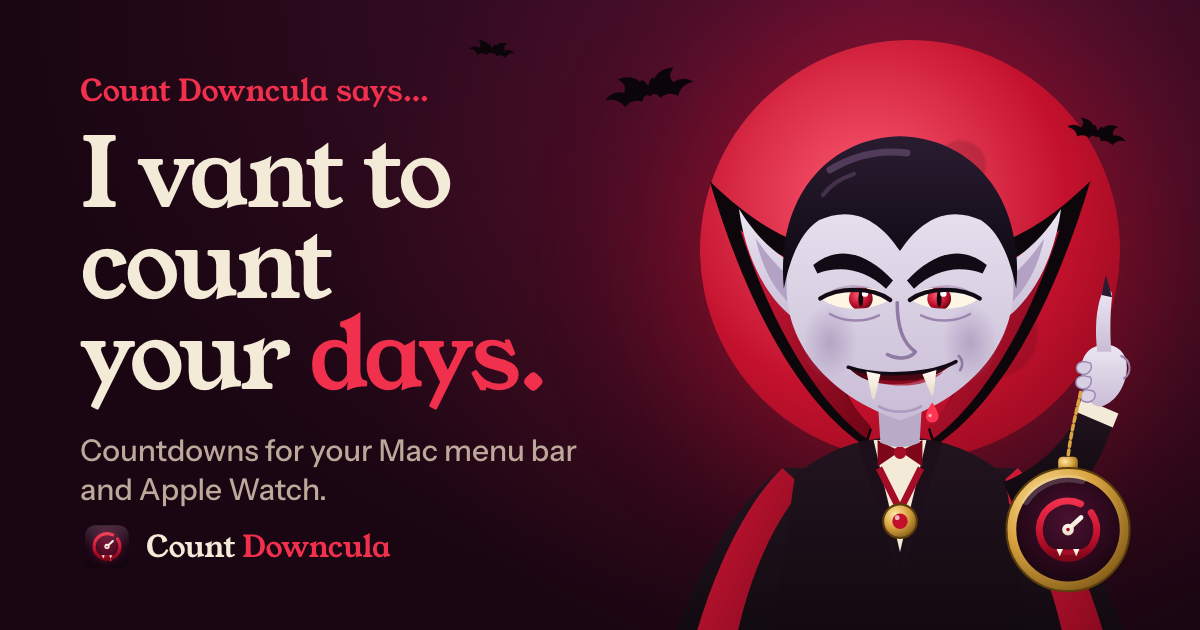
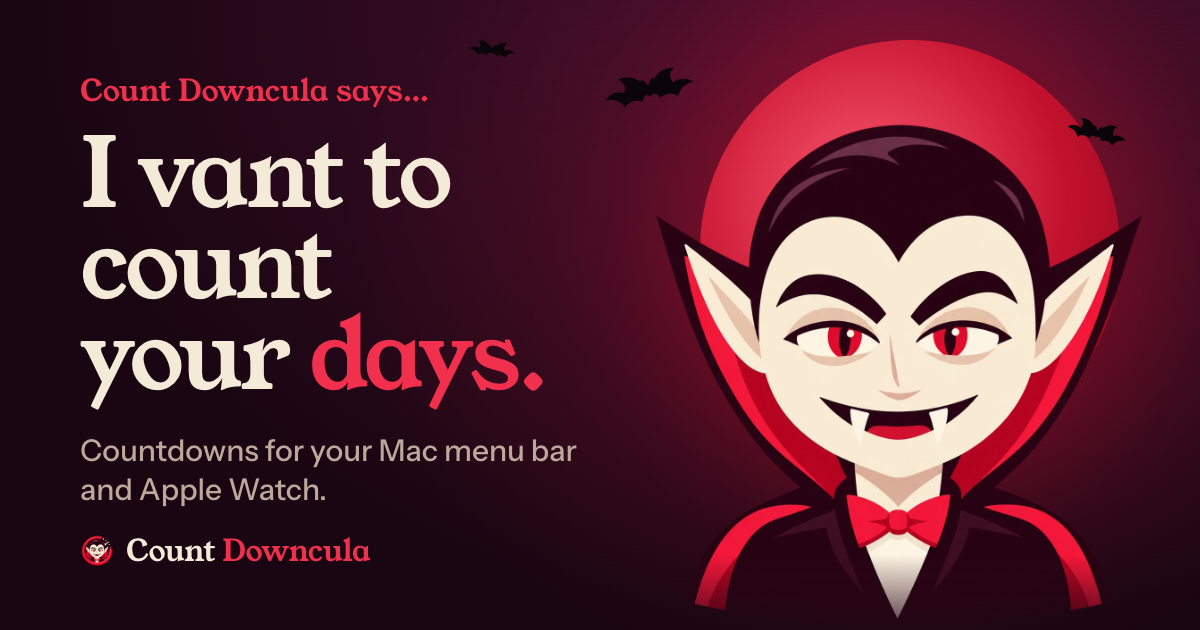
Site: the new Count in the header, hero and link previews
- Header: the dial logo (mark.png) replaces the drawn fang mark on every
  page. The scroll-drain on the old ring goes with it.
- Hero: the new Count bust (count.webp) replaces the old count.svg in
  front of the clock.
- Link previews: og.png and og-halloween.png re-rendered with the new
  logo and bust. The Halloween square and story cards too.
- design/count-icon/Mascot-bust.png: the ring-free bust, kept with the
  icon masters.

The menu bar mock keeps the fang glyph, since that is what the app shows.

Changed region(s): [[0.555, 0.181, 0.9558, 1.0], [0.0617, 0.8143, 0.3392, 0.9048]]

diff --git a/design/halloween/square.html b/design/halloween/square.html
@@ -1,7 +1,7 @@
 <!doctype html><html><head><meta charset="utf-8"><link rel="stylesheet" href="../../site/assets/site.css"><link rel="stylesheet" href="scene.css">
 <style>body{width:1080px;height:1080px;--mx:700px;--my:420px}
 .moon{width:520px;height:520px;left:440px;top:90px}
-.count{width:760px;left:360px;top:200px}
+.count{width:640px;left:460px;top:400px}
 .copy{position:absolute;left:72px;top:96px}
 .num{font-size:330px}
 h1{font-size:84px;margin-top:20px} p{font-size:34px;margin-top:24px}
@@ -11,8 +11,8 @@ h1{font-size:84px;margin-top:20px} p{font-size:34px;margin-top:24px}
 <div style="position:absolute;left:380px;top:110px;width:110px;transform:rotate(-10deg)"><svg class="bat" viewBox="0 0 100 50"><path d="M50 18 C46 10 44 8 42 12 C38 6 30 2 18 4 C24 8 26 14 22 20 C14 16 6 18 0 24 C10 24 16 28 20 36 C26 30 34 30 40 34 C42 28 46 26 50 30 C54 26 58 28 60 34 C66 30 74 30 80 36 C84 28 90 24 100 24 C94 18 86 16 78 20 C74 14 76 8 82 4 C70 2 62 6 58 12 C56 8 54 10 50 18 Z"/></svg></div>
 <div style="position:absolute;left:930px;top:70px;width:70px;transform:rotate(16deg)"><svg class="bat" viewBox="0 0 100 50"><path d="M50 18 C46 10 44 8 42 12 C38 6 30 2 18 4 C24 8 26 14 22 20 C14 16 6 18 0 24 C10 24 16 28 20 36 C26 30 34 30 40 34 C42 28 46 26 50 30 C54 26 58 28 60 34 C66 30 74 30 80 36 C84 28 90 24 100 24 C94 18 86 16 78 20 C74 14 76 8 82 4 C70 2 62 6 58 12 C56 8 54 10 50 18 Z"/></svg></div>
 <div style="position:absolute;left:860px;top:330px;width:48px;transform:rotate(-4deg)"><svg class="bat" viewBox="0 0 100 50"><path d="M50 18 C46 10 44 8 42 12 C38 6 30 2 18 4 C24 8 26 14 22 20 C14 16 6 18 0 24 C10 24 16 28 20 36 C26 30 34 30 40 34 C42 28 46 26 50 30 C54 26 58 28 60 34 C66 30 74 30 80 36 C84 28 90 24 100 24 C94 18 86 16 78 20 C74 14 76 8 82 4 C70 2 62 6 58 12 C56 8 54 10 50 18 Z"/></svg></div>
-<img class="count" src="count.svg">
+<img class="count" src="../count-icon/Mascot-bust.png">
 <div class="copy"><div class="num n">24</div><h1><span class="nights">nights</span><br>'til<br><em>Halloween.</em></h1><p>And yes, I'm counting.</p></div>
-<div class="brand"><img src="../app-icon.svg" width="68" height="68"><span>Count <em>Downcula</em></span></div>
+<div class="brand"><img src="../count-icon/Mascot-original.png" width="68" height="68"><span>Count <em>Downcula</em></span></div>
 <script>const t=new Date(),y=t.getFullYear(),h=new Date(y,9,31),d=Math.max(0,Math.ceil((h-new Date(y,t.getMonth(),t.getDate()))/864e5));document.querySelectorAll(".n").forEach(e=>e.textContent=d);document.querySelectorAll(".nights").forEach(e=>e.textContent=d===1?"night":"nights")</script>
 </body></html>

diff --git a/design/halloween/og.html b/design/halloween/og.html
@@ -1,7 +1,7 @@
 <!doctype html><html><head><meta charset="utf-8"><link rel="stylesheet" href="../../site/assets/site.css"><link rel="stylesheet" href="scene.css">
 <style>body{width:1200px;height:630px;--mx:880px;--my:260px}
 .moon{width:420px;height:420px;left:700px;top:40px}
-.count{width:560px;left:620px;top:20px}
+.count{width:560px;left:620px;top:96px}
 .copy{position:absolute;left:80px;top:72px;width:560px}
 h1{font-size:96px;margin-bottom:28px} p{font-size:30px;line-height:1.3}
 .brand{position:absolute;left:80px;bottom:56px;font-size:30px}
@@ -10,7 +10,7 @@ h1{font-size:96px;margin-bottom:28px} p{font-size:30px;line-height:1.3}
 <div style="position:absolute;left:600px;top:70px;width:90px;transform:rotate(-12deg)"><svg class="bat" viewBox="0 0 100 50"><path d="M50 18 C46 10 44 8 42 12 C38 6 30 2 18 4 C24 8 26 14 22 20 C14 16 6 18 0 24 C10 24 16 28 20 36 C26 30 34 30 40 34 C42 28 46 26 50 30 C54 26 58 28 60 34 C66 30 74 30 80 36 C84 28 90 24 100 24 C94 18 86 16 78 20 C74 14 76 8 82 4 C70 2 62 6 58 12 C56 8 54 10 50 18 Z"/></svg></div>
 <div style="position:absolute;left:1070px;top:120px;width:60px;transform:rotate(14deg)"><svg class="bat" viewBox="0 0 100 50"><path d="M50 18 C46 10 44 8 42 12 C38 6 30 2 18 4 C24 8 26 14 22 20 C14 16 6 18 0 24 C10 24 16 28 20 36 C26 30 34 30 40 34 C42 28 46 26 50 30 C54 26 58 28 60 34 C66 30 74 30 80 36 C84 28 90 24 100 24 C94 18 86 16 78 20 C74 14 76 8 82 4 C70 2 62 6 58 12 C56 8 54 10 50 18 Z"/></svg></div>
 <div style="position:absolute;left:470px;top:40px;width:46px;transform:rotate(6deg)"><svg class="bat" viewBox="0 0 100 50"><path d="M50 18 C46 10 44 8 42 12 C38 6 30 2 18 4 C24 8 26 14 22 20 C14 16 6 18 0 24 C10 24 16 28 20 36 C26 30 34 30 40 34 C42 28 46 26 50 30 C54 26 58 28 60 34 C66 30 74 30 80 36 C84 28 90 24 100 24 C94 18 86 16 78 20 C74 14 76 8 82 4 C70 2 62 6 58 12 C56 8 54 10 50 18 Z"/></svg></div>
-<img class="count" src="count.svg">
+<img class="count" src="../count-icon/Mascot-bust.png">
 <div class="copy"><p class="sig eyebrow" style="font-size:30px;margin-bottom:18px">Count Downcula says…</p><h1>I vant to count<br>your <em>days.</em></h1><p>Countdowns for your Mac menu bar<br>and Apple Watch.</p></div>
-<div class="brand"><img src="../app-icon.svg" width="54" height="54"><span>Count <em>Downcula</em></span></div>
+<div class="brand"><img src="../count-icon/Mascot-original.png" width="54" height="54"><span>Count <em>Downcula</em></span></div>
 </body></html>

diff --git a/design/halloween/story.html b/design/halloween/story.html
@@ -12,9 +12,9 @@ h1{font-size:128px} p{font-size:42px;margin-top:36px}
 <div style="position:absolute;left:120px;top:560px;width:150px;transform:rotate(-14deg)"><svg class="bat" viewBox="0 0 100 50"><path d="M50 18 C46 10 44 8 42 12 C38 6 30 2 18 4 C24 8 26 14 22 20 C14 16 6 18 0 24 C10 24 16 28 20 36 C26 30 34 30 40 34 C42 28 46 26 50 30 C54 26 58 28 60 34 C66 30 74 30 80 36 C84 28 90 24 100 24 C94 18 86 16 78 20 C74 14 76 8 82 4 C70 2 62 6 58 12 C56 8 54 10 50 18 Z"/></svg></div>
 <div style="position:absolute;left:860px;top:520px;width:100px;transform:rotate(12deg)"><svg class="bat" viewBox="0 0 100 50"><path d="M50 18 C46 10 44 8 42 12 C38 6 30 2 18 4 C24 8 26 14 22 20 C14 16 6 18 0 24 C10 24 16 28 20 36 C26 30 34 30 40 34 C42 28 46 26 50 30 C54 26 58 28 60 34 C66 30 74 30 80 36 C84 28 90 24 100 24 C94 18 86 16 78 20 C74 14 76 8 82 4 C70 2 62 6 58 12 C56 8 54 10 50 18 Z"/></svg></div>
 <div style="position:absolute;left:760px;top:1100px;width:64px;transform:rotate(-6deg)"><svg class="bat" viewBox="0 0 100 50"><path d="M50 18 C46 10 44 8 42 12 C38 6 30 2 18 4 C24 8 26 14 22 20 C14 16 6 18 0 24 C10 24 16 28 20 36 C26 30 34 30 40 34 C42 28 46 26 50 30 C54 26 58 28 60 34 C66 30 74 30 80 36 C84 28 90 24 100 24 C94 18 86 16 78 20 C74 14 76 8 82 4 C70 2 62 6 58 12 C56 8 54 10 50 18 Z"/></svg></div>
-<img class="count" src="count.svg">
+<img class="count" src="../count-icon/Mascot-bust.png">
 <div class="fade"></div>
 <div class="copy"><h1>Time,<br>with <em>teeth.</em></h1><p><span class="n">24</span> <span class="nights">nights</span> 'til Halloween. I'm counting.</p></div>
-<div class="brand"><img src="../app-icon.svg" width="88" height="88"><span>Count <em>Downcula</em></span></div>
+<div class="brand"><img src="../count-icon/Mascot-original.png" width="88" height="88"><span>Count <em>Downcula</em></span></div>
 <script>const t=new Date(),y=t.getFullYear(),h=new Date(y,9,31),d=Math.max(0,Math.ceil((h-new Date(y,t.getMonth(),t.getDate()))/864e5));document.querySelectorAll(".n").forEach(e=>e.textContent=d);document.querySelectorAll(".nights").forEach(e=>e.textContent=d===1?"night":"nights")</script>
 </body></html>

diff --git a/site/index.html b/site/index.html
@@ -13,7 +13,7 @@
 <meta property="og:description" content="Free countdowns and timers for your Mac menu bar, iPhone and Apple Watch.">
 <!-- October only: Halloween card. On Nov 1 switch back to /assets/og.png -->
 <meta property="og:image" content="https://www.countdowncula.com/assets/og-halloween.png">
-<meta property="og:image:alt" content="Count Downcula, a cartoon vampire holding a pocket watch: I vant to count your days.">
+<meta property="og:image:alt" content="Count Downcula, a cartoon vampire in a red-lined cape: I vant to count your days.">
 <meta name="twitter:card" content="summary_large_image">
 <link rel="icon" href="/assets/favicon.png" type="image/png">
 <link rel="apple-touch-icon" href="/assets/apple-touch-icon.png">
@@ -26,13 +26,7 @@
 
 <header class="top" id="top">
   <a class="brand" href="/" aria-label="Count Downcula home">
-    <svg viewBox="0 0 1000 1000" aria-hidden="true">
-      <path class="ring" pathLength="1" d="M781.1 295.7 A347.5 347.5 0 1 1 652.3 187.7" fill="none" stroke="#c3112d" stroke-width="95" stroke-linecap="round"/>
-      <path d="M206 600 Q252 742 380 740 L620 740 Q748 742 794 600 A312 312 0 0 1 206 600 Z" fill="#a50c25"/>
-      <path d="M362 736 L438 736 L404 818 Q400 826 396 818 Z M562 736 L638 736 L604 818 Q600 826 596 818 Z" fill="#f3ead8"/>
-      <path d="M500 500 L658 352.7" stroke="#f3ead8" stroke-width="64" stroke-linecap="round"/>
-      <circle cx="500" cy="500" r="75" fill="#f3ead8"/>
-    </svg>
+    <img src="/assets/mark.png" width="96" height="96" alt="">
     <span class="wordmark">Count <em>Downcula</em></span>
   </a>
   <nav aria-label="Primary">
@@ -100,7 +94,7 @@
           <circle cx="500" cy="500" r="22" fill="#a50c25"/>
         </g>
       </svg>
-      <img class="count" src="/assets/count.svg" alt="" width="800" height="1000">
+      <img class="count" src="/assets/count.webp" alt="" width="800" height="820">
     </div>
   </section>
 

diff --git a/site/assets/site.css b/site/assets/site.css
@@ -84,8 +84,7 @@ a:hover { color: #fff; text-decoration-color: var(--fresh); }
   font-family: var(--display); font-size: 1.25rem; letter-spacing: -0.01em;
   text-decoration: none;
 }
-.brand svg { width: 30px; height: 30px; overflow: visible; }
-.brand .ring { stroke-dasharray: 1; stroke-dashoffset: var(--drain, 0); transition: stroke-dashoffset 0.15s linear; }
+.brand img { width: 34px; height: 34px; }
 .top nav { display: flex; gap: clamp(14px, 3vw, 28px); align-items: center; font-size: 0.95rem; }
 .top nav a { text-decoration: none; color: var(--bone-dim); }
 .top nav a:hover { color: var(--bone); }
@@ -247,7 +246,7 @@ a:hover { color: #fff; text-decoration-color: var(--fresh); }
   animation: count-in 1s cubic-bezier(.2, .9, .3, 1.1) 2.3s forwards;
 }
 @keyframes count-in { to { transform: none; opacity: 1; } }
-/* when the clock overlaps the copy, he moves to the clock's right side, mirrored so he still points at it */
+/* when the clock overlaps the copy, he moves to the clock's right side, mirrored so he still looks at it */
 @media (max-width: 1240px) {
   .clock-wrap .count { left: auto; right: -8%; top: 52%; width: 42%; scale: -1 1; }
 }
@@ -759,5 +758,5 @@ a:hover { color: #fff; text-decoration-color: var(--fresh); }
 .foot .foot-word { color: var(--bone); }
 @media (max-width: 420px) {
   .brand { font-size: 1.1rem; gap: 8px; }
-  .brand svg { width: 26px; height: 26px; }
+  .brand img { width: 30px; height: 30px; }
 }

diff --git a/design/halloween/scene.css b/design/halloween/scene.css
@@ -9,13 +9,13 @@ body{position:relative;background:
 .moon::after{content:"";position:absolute;inset:0;border-radius:50%;
   background:radial-gradient(circle at 30% 60%,rgba(0,0,0,.18) 0 8%,transparent 9%),radial-gradient(circle at 62% 30%,rgba(0,0,0,.14) 0 6%,transparent 7%),radial-gradient(circle at 70% 70%,rgba(0,0,0,.12) 0 10%,transparent 11%)}
 .bat{position:absolute;fill:#0b0509}
-.count{position:absolute}
+.count{position:absolute;-webkit-mask-image:linear-gradient(#000 82%,transparent 99%);mask-image:linear-gradient(#000 82%,transparent 99%)}
 .hills{position:absolute;left:0;right:0;bottom:0;fill:#0b0509}
 h1{font-family:var(--display);font-weight:400;letter-spacing:-.03em;line-height:.95;margin:0;color:var(--bone)}
 h1 em{font-style:normal;color:var(--fresh)}
 p{margin:0;color:var(--bone-dim);font-weight:500}
 .brand{display:flex;align-items:center;gap:.4em;font-family:var(--display);color:var(--bone)}
-.brand img{border-radius:22%}
+.brand img{object-fit:contain}
 .num{font-family:var(--display);color:var(--fresh);line-height:.8;letter-spacing:-.04em}
 .brand em{font-style:normal;color:var(--fresh)}
 .sig{font-family:var(--display);color:var(--bone);font-weight:400}

diff --git a/site/cookies.html b/site/cookies.html
@@ -16,13 +16,7 @@
 
 <header class="top" id="top">
   <a class="brand" href="/" aria-label="Count Downcula home">
-    <svg viewBox="0 0 1000 1000" aria-hidden="true">
-      <path class="ring" pathLength="1" d="M781.1 295.7 A347.5 347.5 0 1 1 652.3 187.7" fill="none" stroke="#c3112d" stroke-width="95" stroke-linecap="round"/>
-      <path d="M206 600 Q252 742 380 740 L620 740 Q748 742 794 600 A312 312 0 0 1 206 600 Z" fill="#a50c25"/>
-      <path d="M362 736 L438 736 L404 818 Q400 826 396 818 Z M562 736 L638 736 L604 818 Q600 826 596 818 Z" fill="#f3ead8"/>
-      <path d="M500 500 L658 352.7" stroke="#f3ead8" stroke-width="64" stroke-linecap="round"/>
-      <circle cx="500" cy="500" r="75" fill="#f3ead8"/>
-    </svg>
+    <img src="/assets/mark.png" width="96" height="96" alt="">
     <span class="wordmark">Count <em>Downcula</em></span>
   </a>
   <nav aria-label="Primary">

diff --git a/site/privacy.html b/site/privacy.html
@@ -16,13 +16,7 @@
 
 <header class="top" id="top">
   <a class="brand" href="/" aria-label="Count Downcula home">
-    <svg viewBox="0 0 1000 1000" aria-hidden="true">
-      <path class="ring" pathLength="1" d="M781.1 295.7 A347.5 347.5 0 1 1 652.3 187.7" fill="none" stroke="#c3112d" stroke-width="95" stroke-linecap="round"/>
-      <path d="M206 600 Q252 742 380 740 L620 740 Q748 742 794 600 A312 312 0 0 1 206 600 Z" fill="#a50c25"/>
-      <path d="M362 736 L438 736 L404 818 Q400 826 396 818 Z M562 736 L638 736 L604 818 Q600 826 596 818 Z" fill="#f3ead8"/>
-      <path d="M500 500 L658 352.7" stroke="#f3ead8" stroke-width="64" stroke-linecap="round"/>
-      <circle cx="500" cy="500" r="75" fill="#f3ead8"/>
-    </svg>
+    <img src="/assets/mark.png" width="96" height="96" alt="">
     <span class="wordmark">Count <em>Downcula</em></span>
   </a>
   <nav aria-label="Primary">

diff --git a/site/support.html b/site/support.html
@@ -16,13 +16,7 @@
 
 <header class="top" id="top">
   <a class="brand" href="/" aria-label="Count Downcula home">
-    <svg viewBox="0 0 1000 1000" aria-hidden="true">
-      <path class="ring" pathLength="1" d="M781.1 295.7 A347.5 347.5 0 1 1 652.3 187.7" fill="none" stroke="#c3112d" stroke-width="95" stroke-linecap="round"/>
-      <path d="M206 600 Q252 742 380 740 L620 740 Q748 742 794 600 A312 312 0 0 1 206 600 Z" fill="#a50c25"/>
-      <path d="M362 736 L438 736 L404 818 Q400 826 396 818 Z M562 736 L638 736 L604 818 Q600 826 596 818 Z" fill="#f3ead8"/>
-      <path d="M500 500 L658 352.7" stroke="#f3ead8" stroke-width="64" stroke-linecap="round"/>
-      <circle cx="500" cy="500" r="75" fill="#f3ead8"/>
-    </svg>
+    <img src="/assets/mark.png" width="96" height="96" alt="">
     <span class="wordmark">Count <em>Downcula</em></span>
   </a>
   <nav aria-label="Primary">

diff --git a/site/terms.html b/site/terms.html
@@ -16,13 +16,7 @@
 
 <header class="top" id="top">
   <a class="brand" href="/" aria-label="Count Downcula home">
-    <svg viewBox="0 0 1000 1000" aria-hidden="true">
-      <path class="ring" pathLength="1" d="M781.1 295.7 A347.5 347.5 0 1 1 652.3 187.7" fill="none" stroke="#c3112d" stroke-width="95" stroke-linecap="round"/>
-      <path d="M206 600 Q252 742 380 740 L620 740 Q748 742 794 600 A312 312 0 0 1 206 600 Z" fill="#a50c25"/>
-      <path d="M362 736 L438 736 L404 818 Q400 826 396 818 Z M562 736 L638 736 L604 818 Q600 826 596 818 Z" fill="#f3ead8"/>
-      <path d="M500 500 L658 352.7" stroke="#f3ead8" stroke-width="64" stroke-linecap="round"/>
-      <circle cx="500" cy="500" r="75" fill="#f3ead8"/>
-    </svg>
+    <img src="/assets/mark.png" width="96" height="96" alt="">
     <span class="wordmark">Count <em>Downcula</em></span>
   </a>
   <nav aria-label="Primary">

diff --git a/site/_src/og.html b/site/_src/og.html
@@ -6,4 +6,4 @@ h1{font-family:var(--display);font-size:104px;line-height:.95;letter-spacing:-.0
 h1 span{display:block;padding-left:.6em}
 p{font:500 30px/1.3 var(--text);color:#bda99b;margin:0}
 img{position:absolute;right:30px;top:95px;width:440px;height:440px}
-</style></head><body><div><h1>Time,<span>with teeth.</span></h1><p>Countdowns for your Mac menu bar,<br>iPhone and Apple Watch</p></div><img src="../assets/app-icon.svg"></body></html>
+</style></head><body><div><h1>Time,<span>with teeth.</span></h1><p>Countdowns for your Mac menu bar,<br>iPhone and Apple Watch</p></div><img src="../../design/count-icon/Mascot-original.png"></body></html>

diff --git a/site/assets/site.js b/site/assets/site.js
@@ -34,13 +34,9 @@
     return t;
   };
 
-  // ---- header: the brand ring drains as you scroll the page ----
+  // ---- header: solid background once you scroll ----
   const top = $("#top");
-  const brandRing = $(".brand .ring");
   const onScroll = () => {
-    const max = document.documentElement.scrollHeight - innerHeight;
-    const p = max > 0 ? Math.min(1, scrollY / max) : 0;
-    brandRing?.style.setProperty("--drain", (p * 0.92).toFixed(3));
     top.classList.toggle("is-scrolled", scrollY > 30);
   };
   addEventListener("scroll", onScroll, { passive: true });
